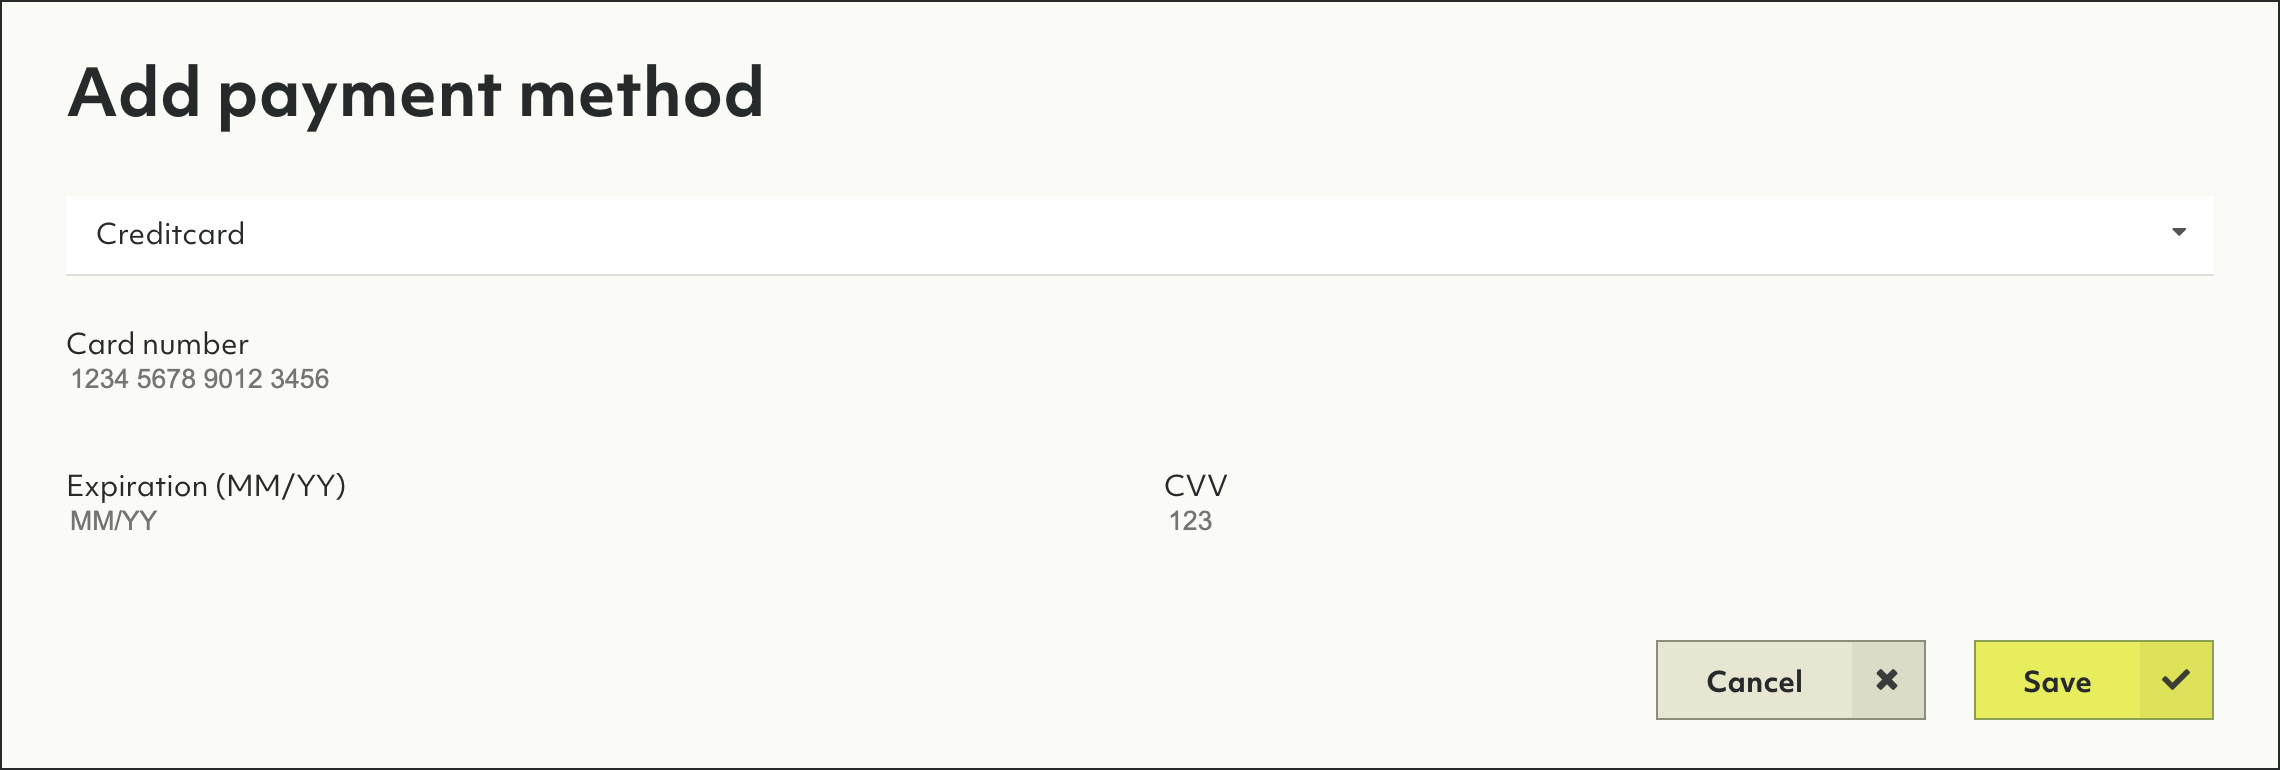
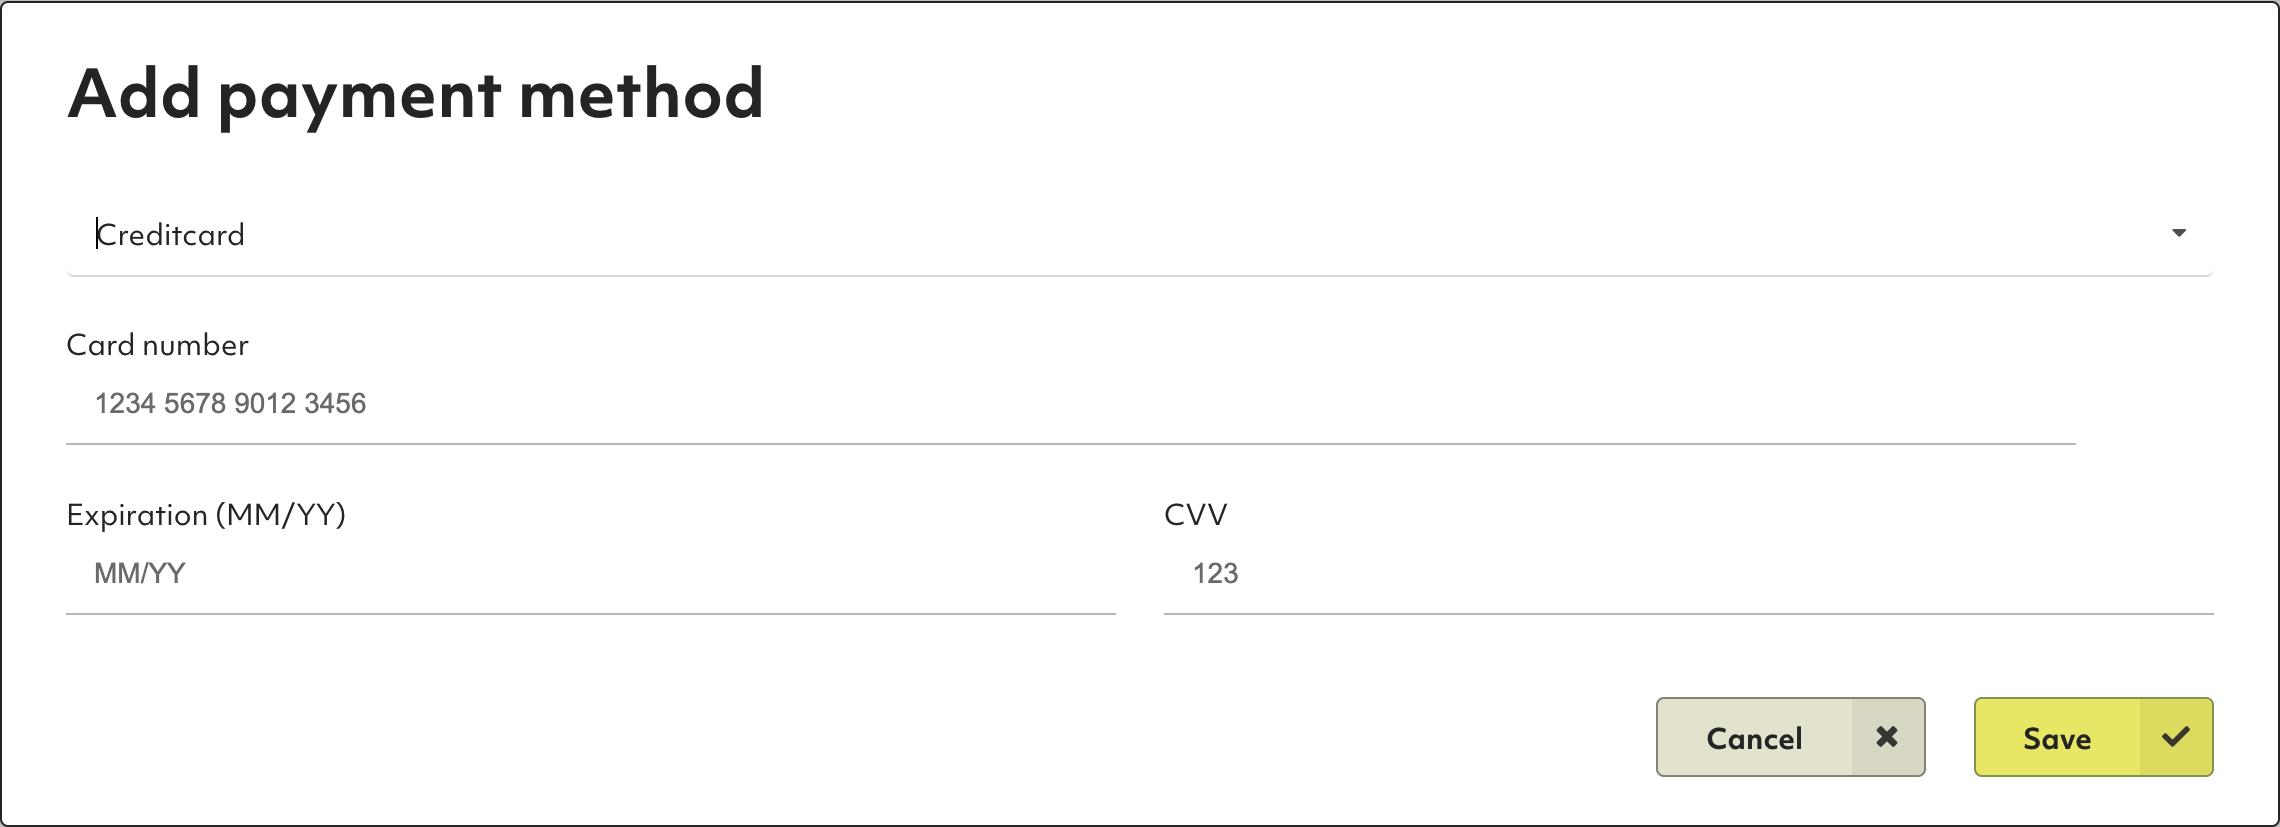
Oasis: Expand Organizations in navigation, make Users & Groups / Billing children (#579)
* Use single $(document).ready()

* Implement expand option for navigation definitions

Adds classes "expanded" and "selected" to <li>, so that the child elements always show

* Make users & billing children of orgs, expand nav

* Fix links

* changed formatting and some wording for the ui elements

* updated the billing screenshot

* updated the billing screenshot

* updated the billing screenshot

* updated the payment method screenshot

diff --git a/js/site.js b/js/site.js
@@ -123,6 +123,8 @@ var loadPage = function(target, fn) {
         }
         current = current.parent();
       }
+      $("nav .expanded").addClass("selected");
+
       linkify();
       if (fn) {
         fn();
@@ -145,16 +147,16 @@ window.onpopstate = function(event) {
   loadPage(event.target.location);
 };
 
-$(document).ready(function scrollToAnchor() {
+$(document).ready(function () {
+  // Scroll to anchor
   if (location.hash.length > 1) {
     var elem = document.querySelector(location.hash);
     if (elem) {
       elem.scrollIntoView();
     }
   }
-});
 
-$(document).ready(function handleNav() {
+  // Handle navigation
   $("div.book-summary nav a").click(function(event) {
     // get source code value, not the absolute URL from .href!
     var hrefAttr = event.target.getAttribute("href");
@@ -175,11 +177,9 @@ $(document).ready(function handleNav() {
       enableHamburger();
     })
   });
-});
+  enableHamburger();
 
-$(document).ready(enableHamburger); 
-
-$(document).ready(function hideSummaryOnMobile() {
+  // Hide navigation on mobile
   if (window.matchMedia("(max-width: 800px)").matches) {
     $('div.book')
       .addClass("without-animation")

diff --git a/_plugins/NavigationTag.rb b/_plugins/NavigationTag.rb
@@ -48,8 +48,14 @@ class NavigationTag < Liquid::Tag
                         found = true
                         classNames += " selected"
                     end
+                    if element["expand"]
+                        classNames += " expanded"
+                        if not localFound
+                            classNames += " selected"
+                        end
+                    end
                 end
-                
+
                 output += localIndent + "<li class=\"" + classNames + "\">\n"
                 output += children
                 output += localIndent + "</li>\n"

diff --git a/oasis/organizations.md b/oasis/organizations.md
@@ -1,6 +1,6 @@
 ---
 layout: default
-description: How to manage organizations and billing
+description: How to manage organizations
 title: Organizations in ArangoDB Oasis
 ---
 # Organizations
@@ -39,42 +39,9 @@ You can convert to the professional service model at any time by adding
 your billing details and at least one payment method. You can then create
 additional organizations and projects and have more and larger deployments.
 
+See [Billing: How to add billing details / payment methods](billing.html)
+
 ![Oasis Billing](images/oasis-billing.png)
-
-### How to add billing details
-
-1. Click on _Overview_ in the _Organization_ section of the main navigation.
-2. Click on the _Billing_ tab.
-3. In the _Billing Details_ section, click the _Edit_ button.
-4. Enter your billing address and EU VAT identification number (if applicable).
-   Note that if you are located within the EU and you do not provide a VAT number,
-   or you are located in Germany, VAT will be added to your invoices.
-5. Optionally, enter the email address(es) to which invoices should be emailed
-   to automatically.
-6. Click on _Save_.
-
-![Oasis Billing Details](images/oasis-billing-details.png)
-
-### How to add a payment method
-
-1. Click on _Overview_ in the _Organization_ section of the main navigation.
-2. Click on the _Billing_ tab.
-3. In the _Payment methods_ section, click the _Add_ button.
-4. From the dropdown, select a payment type
-   (currently, only credit card is supported).
-5. Fill out the form with your credit card details.
-6. Click the _Save_ button.
-
-![Oasis Payment Method](images/oasis-add-payment-method-credit-card.png)
-
-{% comment %}
-TODO: Need screenshot with invoice
-
-### How to view invoices
-
-1. In the _Invoices_ section,
-
-{% endcomment %}
 
 ## How to create a new organization
 

diff --git a/oasis/billing.md b/oasis/billing.md
@@ -1,0 +1,36 @@
+---
+layout: default
+description: How to manage billing details and payment methods
+title: Billing in ArangoDB Oasis
+---
+# Billing
+
+## How to add billing details
+
+1. In the main navigation menu, click **Overview** in the **Organization** section.
+2. Open the **Billing** tab.
+3. In the **Billing Details** section, click **Edit**.
+4. Enter your company name, billing address, and EU VAT identification number (if applicable).
+5. Optionally, enter the email address(es) to which invoices should be emailed
+   to automatically.
+6. Click **Save**.
+
+![Oasis Billing Details](images/oasis-billing-details.png)
+
+## How to add a payment method
+
+1. In the main navigation menu, click **Overview** in the **Organization** section.
+2. Open the **Billing** tab.
+3. In the **Payment methods** section, click **Add**.
+4. Fill out the form with your credit card details. Currently, a credit card is the only available payment method.
+5. Click **Save**.
+
+![Oasis Payment Method](images/oasis-add-payment-method-credit-card.png)
+
+{% comment %}
+TODO: Need screenshot with invoice
+
+### How to view invoices
+
+
+{% endcomment %}

diff --git a/oasis/getting-started.md b/oasis/getting-started.md
@@ -116,8 +116,8 @@ After the trial period, your deployments will automatically be deleted.
 
 You can convert to the professional service model at any time by adding 
 your billing details and at least one payment method. See:
-- [How to add billing details to organizations](organizations.html#how-to-add-billing-details)
-- [How to add a payment method to an organization](organizations.html#how-to-add-a-payment-method)
+- [How to add billing details to organizations](billing.html#how-to-add-billing-details)
+- [How to add a payment method to an organization](billing.html#how-to-add-a-payment-method)
 
 ## Limitations of ArangoDB Oasis
 
